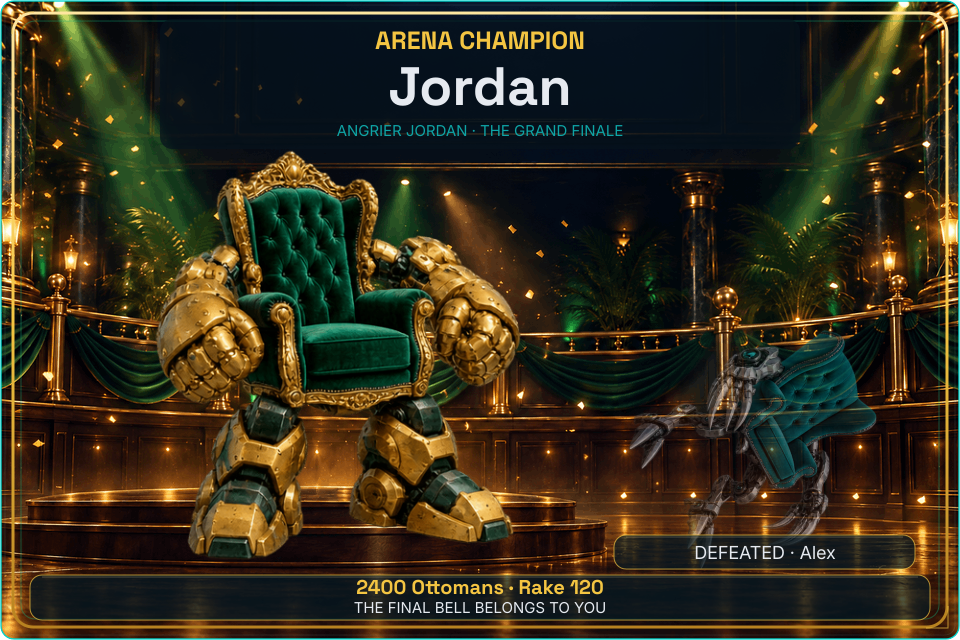
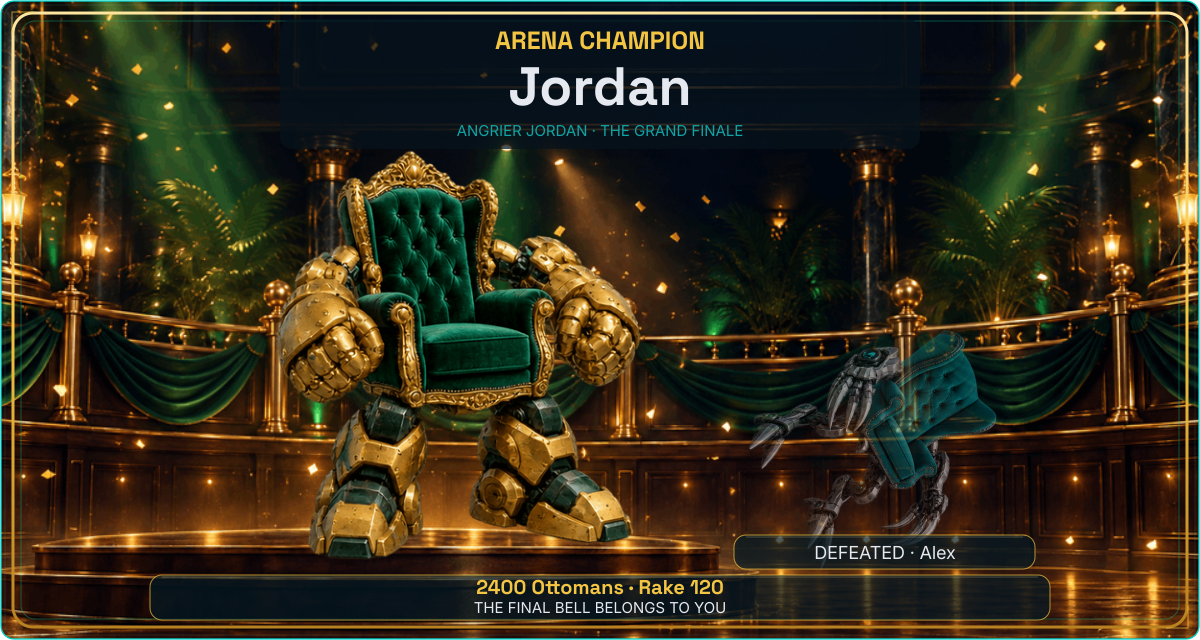
Widen event layouts and polish waiting clocks and race finish

diff --git a/angrier_jordan_precode_construction_pack_v1/packages/features-special/src/render.ts b/angrier_jordan_precode_construction_pack_v1/packages/features-special/src/render.ts
@@ -51,22 +51,22 @@ export function lineSequence(view:LineView,layout:'compact'|'wide'='compact'){co
 
 /** Landscape runtime edition uses the approved lounge, materials and countdown particles. */
 function renderWideLine(view:LineView,elapsedMs:number,callout=''){
- const panel=(x:number,y:number,w:number,h:number,accent='#C1A364')=>`<rect x="${x}" y="${y}" width="${w}" height="${h}" rx="12" fill="#041923" fill-opacity=".48" stroke="${accent}"/><path d="M${x+12} ${y+2}H${x+w-12}" stroke="#F7E5AC" stroke-opacity=".25"/>`;
+ const panel=(x:number,y:number,w:number,h:number,accent='#C1A364')=>`<rect x="${x}" y="${y}" width="${w}" height="${h}" rx="12" fill="url(#loungeGlass)" stroke="${accent}" stroke-opacity=".72"/><path d="M${x+12} ${y+2}H${x+w-12}" stroke="#F7E5AC" stroke-opacity=".25"/><path d="M${x+8} ${y+25}V${y+8}H${x+25}M${x+w-25} ${y+h-8}H${x+w-8}V${y+h-25}" fill="none" stroke="#D5AE62" stroke-opacity=".75"/>`;
 
  const ready=view.members.filter(m=>m.status==='ready'),waiting=view.members.filter(m=>m.status==='waiting'),host=short(view.members.find(m=>m.userId===view.ownerId)?.name??'Host',24),motion=lineFrame(elapsedMs,view.durationMs??LINE_DURATION_MS),live=view.state==='SETTLING',done=view.state==='CLOSED'||live&&motion.phase==='complete',cancelled=view.state==='CANCELLED';
- let body=text(480,40,'ANGRIER JORDAN · PRIVATE LOUNGE EVENTS',16,'#C8A1FF',mid)+head(480,89,'Line Time',46,'#E6EAF0',mid)+text(480,125,done?'THE MOMENT IS OURS':cancelled?'UNTIL NEXT TIME':live?'ONE ROOM · ONE SHARED MOMENT':'READY CHECK · COUNTDOWN · GRAND FINALE',20,'#E4C67F',mid);
- body+=panel(30,146,900,62,'#C1A364')+head(480,184,host+' · Host',28,'#E6EAF0',mid)+panel(30,221,228,328,'#10B981')+panel(702,221,228,328,'#C1A364')+panel(270,221,420,328,'#AF7AE1');
- for(const[groupIndex,members]of [ready,waiting].entries()){const x=144+groupIndex*672;body+=head(x,258,(groupIndex?'ONE SECOND · ':'READY · ')+members.length,22,groupIndex?'#F4C542':'#68E0B7',mid);for(const[i,m]of members.slice(0,5).entries())body+=head(x,305+i*44,short(m.name,14),22,'#E6EAF0',mid);if(!members.length)body+=text(x,379,'An open seat.',20,'#B4CECA',mid);if(members.length>5)body+=text(x,534,'+'+(members.length-5)+' more',17,'#D0C0EA',mid);}
- body+='<g clip-path="url(#stage)"><image href="'+eventScene('line-countdown.png')+'" x="0" y="0" width="960" height="640" preserveAspectRatio="xMidYMid slice"/></g>';
- if(live&&!done){if(motion.phase==='burst'){body+='<g clip-path="url(#stage)"><image href="'+eventScene('line-powder.png')+'" x="'+(480-(320+motion.progress*100)/2)+'" y="'+(320-motion.progress*70)+'" width="'+(320+motion.progress*100)+'" height="'+(230+motion.progress*100)+'"/></g>';}else{body+=head(480,252,'LINE STARTS IN',23,'#F4D17B',mid)+'<image data-countdown-number="'+motion.number+'" href="'+eventScene('line-number-'+motion.number+'.png')+'" x="359" y="262" width="242" height="272" preserveAspectRatio="xMidYMid meet"/>';} }
- else if(done||cancelled){body+='<circle cx="480" cy="369" r="80" fill="#0E3233" stroke="#C0A264" stroke-width="3"/>'+(cancelled?'<path d="M454 343 506 395M506 343 454 395" stroke="#D7BCF8" stroke-width="5"/>':'<path d="M438 370 468 397 526 343" stroke="#74E6BC" stroke-width="6" fill="none"/>')+head(480,488,done?'Line complete.':'Line cancelled.',26,'#E6EAF0',mid);}
- else{body+='<circle cx="480" cy="368" r="102" fill="#071F28" fill-opacity=".7" stroke="#BF9F60" stroke-width="3"/>'+head(480,373,String(view.members.length),94,'#E4D0FF',mid)+text(480,416,'CHAIRS GATHERED',19,'#E4C67F',mid)+text(480,496,'The finale begins at timer end.',21,'#E6EAF0',mid);}
- body+=panel(30,562,900,54,'#BBA16A')+head(480,596,done?'SIT. PLAY. BELONG.':cancelled?'A NEW MOMENT AWAITS':live&&motion.phase==='burst'?'ONE GLORIOUS CLOUD OF CHAOS':live?'5 · 4 · 3 · 2 · 1':(short(callout.replace(/<@&\d+>/g,'').trim(),64)||'CHECK IN BELOW · THE HOST MAY START EARLY'),21,'#E6EAF0',mid);
+ let body=text(600,40,'ANGRIER JORDAN · PRIVATE LOUNGE EVENTS',16,'#C8A1FF',mid)+head(600,89,'Line Time',46,'#E6EAF0',mid)+text(600,125,done?'SIT. PLAY. BELONG.':cancelled?'UNTIL NEXT TIME':live?'ONE ROOM · ONE SHARED MOMENT':'READY CHECK · COUNTDOWN · GRAND FINALE',20,'#E4C67F',mid);
+ body+=panel(30,146,1140,62,'#C1A364')+head(600,184,host+' · Host',28,'#E6EAF0',mid)+panel(30,221,264,328,'#10B981')+panel(906,221,264,328,'#C1A364')+panel(306,221,588,328,'#AF7AE1');
+ for(const[groupIndex,members]of [ready,waiting].entries()){const x=162+groupIndex*876;body+=head(x,258,(groupIndex?'ONE SECOND · ':'READY · ')+members.length,22,groupIndex?'#F4C542':'#68E0B7',mid);for(const[i,m]of members.slice(0,5).entries())body+=head(x,305+i*44,short(m.name,17),26,'#E6EAF0',mid);if(!members.length)body+=text(x,379,'An open seat.',20,'#B4CECA',mid);if(members.length>5)body+=text(x,534,'+'+(members.length-5)+' more',17,'#D0C0EA',mid);}
+ body+='<g clip-path="url(#stage)"><image href="'+eventScene('line-countdown.png')+'" x="0" y="0" width="1200" height="640" preserveAspectRatio="xMidYMid slice"/></g>';
+ if(live&&!done){if(motion.phase==='burst'){body+='<g clip-path="url(#stage)"><image href="'+eventScene('line-powder.png')+'" x="'+(600-(320+motion.progress*100)/2)+'" y="'+(320-motion.progress*70)+'" width="'+(320+motion.progress*100)+'" height="'+(230+motion.progress*100)+'"/></g>';}else{body+=head(600,252,'LINE STARTS IN',23,'#F4D17B',mid)+'<image data-countdown-number="'+motion.number+'" href="'+eventScene('line-number-'+motion.number+'.png')+'" x="443" y="262" width="314" height="272" preserveAspectRatio="xMidYMid meet"/>';} }
+ else if(done||cancelled){body+='<circle cx="600" cy="369" r="80" fill="#0E3233" stroke="#C0A264" stroke-width="3"/>'+(cancelled?'<path d="M574 343 626 395M626 343 574 395" stroke="#D7BCF8" stroke-width="5"/>':'<path d="M558 370 588 397 646 343" stroke="#74E6BC" stroke-width="6" fill="none"/>')+head(600,488,done?'Line complete.':'Line cancelled.',26,'#E6EAF0',mid);}
+ else{body+='<circle cx="600" cy="368" r="102" fill="#071F28" fill-opacity=".7" stroke="#BF9F60" stroke-width="3"/>'+head(600,373,String(view.members.length),94,'#E4D0FF',mid)+text(600,416,'CHAIRS GATHERED',19,'#E4C67F',mid)+text(600,496,'The finale begins at timer end.',21,'#E6EAF0',mid);}
+ body+=panel(30,562,1140,54,'#BBA16A')+head(600,596,done?'SIT. PLAY. BELONG.':cancelled?'A NEW MOMENT AWAITS':live&&motion.phase==='burst'?'ONE GLORIOUS CLOUD OF CHAOS':live?'5 · 4 · 3 · 2 · 1':(short(callout.replace(/<@&\d+>/g,'').trim(),64)||'CHECK IN BELOW · THE HOST MAY START EARLY'),21,'#E6EAF0',mid);
 
  if(done){
-  body='<image href="'+eventScene('line-powder.png')+'" x="60" y="142" width="840" height="434"/>';
-  body+='<rect x="159" y="24" width="642" height="140" rx="14" fill="#06131D" fill-opacity=".72"/>'+text(480,57,'ANGRIER JORDAN · THE GRAND FINALE',18,'#D1ABFF',mid)+head(480,111,'LINE COMPLETE',56,'#F4D17B',mid)+text(480,147,'THE MOMENT IS OURS',24,'#E6EAF0',mid);
-  body+=panel(30,559,900,61,'#D8B873')+head(480,586,host+' · '+view.members.length+' Chairs together',25,'#E6EAF0',mid)+text(480,609,'SAME CHAIRS. A MOMENT WORTH KEEPING.',17,'#F4D17B',mid);
+  body='<image href="'+eventScene('line-powder.png')+'" x="180" y="142" width="840" height="434"/>';
+  body+='<rect x="279" y="24" width="642" height="140" rx="14" fill="#06131D" fill-opacity=".72"/>'+text(600,57,'ANGRIER JORDAN · THE GRAND FINALE',18,'#D1ABFF',mid)+head(600,111,'LINE COMPLETE',56,'#F4D17B',mid);
+  body+=panel(30,559,1140,61,'#D8B873')+head(600,586,host+' · '+view.members.length+' Chairs together',25,'#E6EAF0',mid)+text(600,609,'SAME CHAIRS. A MOMENT WORTH KEEPING.',17,'#F4D17B',mid);
  }
- return '<svg xmlns="http://www.w3.org/2000/svg" width="960" height="640" viewBox="0 0 960 640">'+defs+'<defs><clipPath id="wide"><rect width="960" height="640" rx="18"/></clipPath><clipPath id="stage"><rect x="271" y="222" width="418" height="326" rx="10"/></clipPath></defs><g clip-path="url(#wide)"><image href="'+eventScene('line-countdown.png')+'" width="960" height="640" preserveAspectRatio="xMidYMid slice"/><rect width="960" height="640" fill="url(#wash)"/>'+body+'</g><rect x="2" y="2" width="956" height="636" rx="18" fill="none" stroke="#A469E2" stroke-width="3"/><rect x="12" y="12" width="936" height="616" rx="16" fill="none" stroke="#D9BC75" stroke-width="3"/><rect x="19" y="19" width="922" height="602" rx="12" fill="none" stroke="#A469E2" stroke-opacity=".45"/></svg>';
+ return '<svg xmlns="http://www.w3.org/2000/svg" width="1200" height="640" viewBox="0 0 1200 640">'+defs+'<defs><linearGradient id="loungeGlass" x2="0" y2="1"><stop stop-color="#0B1220" stop-opacity=".64"/><stop offset=".5" stop-color="#0A3639" stop-opacity=".25"/><stop offset="1" stop-color="#15140F" stop-opacity=".55"/></linearGradient><clipPath id="wide"><rect width="1200" height="640" rx="18"/></clipPath><clipPath id="stage"><rect x="307" y="222" width="586" height="326" rx="10"/></clipPath></defs><g clip-path="url(#wide)"><image href="'+eventScene('line-countdown.png')+'" width="1200" height="640" preserveAspectRatio="xMidYMid slice"/><rect width="1200" height="640" fill="url(#wash)"/>'+body+'</g><rect x="2" y="2" width="1196" height="636" rx="18" fill="none" stroke="#A469E2" stroke-width="3"/><rect x="12" y="12" width="1176" height="616" rx="16" fill="none" stroke="#D9BC75" stroke-width="3"/><rect x="19" y="19" width="1162" height="602" rx="12" fill="none" stroke="#A469E2" stroke-opacity=".45"/></svg>';
 }

diff --git a/angrier_jordan_precode_construction_pack_v1/packages/features-events/src/wide-render.ts b/angrier_jordan_precode_construction_pack_v1/packages/features-events/src/wide-render.ts
@@ -6,28 +6,37 @@ const title=(x:number,y:number,s:string,size=28,color:string=ink.white)=>text(x,
 const panel=(x:number,y:number,w:number,h:number,accent:string=ink.teal)=>`<rect x="${x}" y="${y}" width="${w}" height="${h}" rx="12" fill="#041923" fill-opacity=".7" stroke="${accent}" stroke-opacity=".7"/><path d="M${x+12} ${y+2}H${x+w-12}" stroke="#F7E5AC" stroke-opacity=".25"/>`;
 const skin=(n=1)=>Math.max(1,Math.min(6,Math.trunc(n)));
 const car=(n=1)=>imageAsset('../v5/cars-'+skin(n)+'-runtime.png'),robot=(n=1)=>imageAsset('../v5/robots-'+skin(n)+'-runtime.png');
-function frame(body:string,scene='lounge-stage-runtime.png'){return shell(640,'<image href="'+imageAsset('../v5/'+scene)+'" width="960" height="640"/>'+ '<rect x="13" y="13" width="934" height="614" rx="20" fill="none" stroke="url(#gold)" stroke-width="3"/><rect x="21" y="21" width="918" height="598" rx="14" fill="none" stroke="#10B981" stroke-opacity=".4"/>'+body,0,960);}
+function frame(body:string,scene='lounge-stage-runtime.png',expanded=false){return shell(640,'<image href="'+imageAsset('../v5/'+scene)+'" width="1200" height="640" preserveAspectRatio="xMidYMid slice"/>'+ '<rect x="13" y="13" width="1174" height="614" rx="20" fill="none" stroke="url(#gold)" stroke-width="3"/><rect x="21" y="21" width="1158" height="598" rx="14" fill="none" stroke="#10B981" stroke-opacity=".4"/>'+(expanded?body:'<g transform="translate(120 0)">'+body+'</g>'),0,1200);}
 function heading(name:string,state:string){return title(480,45,'ANGRIER JORDAN · PRIVATE LOUNGE EVENTS',16,ink.teal)+title(480,91,name,43)+title(480,125,state,20,ink.warm);}
 function pool(view:RaceView,label:string){return panel(32,553,896,60,ink.gold)+title(480,581,(view.result?.pool??view.pool)+' Ottomans · '+label,25)+text(480,603,view.result?.refunded?'FULL REFUND · NO RAKE':'SIT. PLAY. BELONG.',14,ink.warm,mid);}
-/** Live positions consume the persisted authoritative race timeline. */
+/** A single clock animation is anchored to the saved waiting deadline. */
+function waitingClock(remainingMs:number,totalMs:number,x=32,y=553,width=896,poolValue='0'){
+ const seconds=Math.max(0,Math.ceil(remainingMs/1000)),ratio=Math.max(0,Math.min(1,remainingMs/totalMs)),clock=seconds?String(Math.floor(seconds/60)).padStart(2,'0')+':'+String(seconds%60).padStart(2,'0'):'STARTING';
+ return '<g data-waiting-seconds="'+seconds+'">'+panel(x,y,width,60,ink.gold)+title(x+width/2,y+29,(seconds?'STARTS IN '+clock:'WAITING WINDOW COMPLETE'),29,seconds<=5?ink.gold:ink.white)+text(x+width-18,y+27,short(poolValue,18)+' Ottomans',17,ink.warm,'text-anchor="end"')+'<rect x="'+(x+18)+'" y="'+(y+43)+'" width="'+(width-36)+'" height="7" rx="3" fill="#05202B"/><rect x="'+(x+18)+'" y="'+(y+43)+'" width="'+((width-36)*ratio)+'" height="7" rx="3" fill="url(#gold)"/></g>';
+}
+/** Position and finish arrival both consume the persisted race snapshot; no modulo motion. */
 export function renderWideRace(view:RaceView,motion:EventMotion={}){
- const live=view.state==='LOCKED',closed=view.state==='CLOSED',cancelled=view.state==='CANCELLED',phase=motion.phase??0;
- if(closed)return grandFinale(view,'race');
- if(live&&view.motion){let body=heading('Chair Race','LIVE STANDINGS · BETTING LOCKED');const h=390/Math.max(1,view.racers.length);for(const [i,r]of view.racers.entries()){const row=view.motion.rows.find(x=>x.userId===r.userId),progress=Math.max(0,Math.min(100,row?.progress??0)),y=146+i*h;body+=panel(32,y,896,h-5,i%2?ink.gold:ink.teal)+title(155,y+h*.45,short(r.name,15),24)+title(155,y+h*.75,'#'+(row?.place??i+1),20,ink.gold)+'<path d="M290 '+(y+h-15)+'H890" stroke="#B99859" stroke-width="2" stroke-dasharray="16 8"/><image href="'+car(r.chair)+'" x="'+(280+progress*4.7)+'" y="'+(y+2)+'" width="135" height="'+(h-10)+'"/>'; }return frame(body+pool(view,'race pool'));}
- let body=heading(closed?'Chair Race · Winner’s Circle':'Chair Race',live?'ENGINES ON · BETTING LOCKED':closed?'THE OFFICIAL RESULT':cancelled?'RACE CANCELLED':'TAKE YOUR SEAT · BACK YOUR FAVOURITE');
- if(closed){const winner=view.racers.find(r=>r.userId===view.winnerId),ranked=[...view.racers].sort((a,b)=>(view.motion?.rows.find(r=>r.userId===a.userId)?.place??1)-(view.motion?.rows.find(r=>r.userId===b.userId)?.place??1));
-  body+=panel(32,146,478,390,ink.gold)+'<ellipse cx="271" cy="405" rx="210" ry="75" fill="url(#lamp)"/><image href="'+car(winner?.chair)+'" x="115" y="160" width="312" height="285"/>'+title(271,477,short(winner?.name??'Winner'),34,ink.gold)+title(271,511,'FIRST ACROSS THE LINE',18)+panel(526,146,402,390);
-  const gap=Math.min(72,310/Math.max(1,ranked.length)),top=341-(ranked.length-1)*gap/2;
-  body+=ranked.map((r,i)=>title(727,top+i*gap,String(i+1).padStart(2,'0')+' · '+short(r.name,18),28,i?ink.white:ink.gold)).join('');
+ if(view.state==='CLOSED')return grandFinale(view,'race');
+ const live=view.state==='LOCKED',cancelled=view.state==='CANCELLED',finished=!!view.motion?.finished;
+ let body='<g transform="translate(120 0)">'+heading('Chair Race',live?(finished?'THE FINISH LINE · OFFICIAL RESULT NEXT':'LIVE STANDINGS · BETTING LOCKED'):cancelled?'RACE CANCELLED':'TAKE YOUR SEAT · BACK YOUR FAVOURITE')+'</g>';
+ if(live&&view.motion){
+  const h=390/Math.max(1,view.racers.length),start=290,finish=1090;
+  for(const [i,r]of view.racers.entries()){
+   const row=view.motion.rows.find(x=>x.userId===r.userId),progress=Math.max(0,Math.min(100,row?.progress??0)),y=146+i*h,size=Math.min(170,h-7),x=start+progress/100*(finish-start-size*.88),near=progress>80;
+   body+=panel(32,y,1136,h-5,i%2?ink.gold:ink.teal)+title(151,y+h*.45,short(r.name,16),26)+title(151,y+h*.8,'#'+(row?.place??i+1),21,ink.gold);
+   body+='<path d="M'+start+' '+(y+h-9)+'H'+finish+'" stroke="#B99859" stroke-width="2" stroke-dasharray="18 9"/>';
+   for(let k=0;k<6;k++)body+='<rect x="'+(finish+(k%2)*8)+'" y="'+(y+8+Math.floor(k/2)*Math.max(10,(h-18)/3))+'" width="8" height="'+Math.max(10,(h-18)/3)+'" fill="'+(k%2?'#F4C542':'#E6EAF0')+'"/>';
+   if(near)body+='<ellipse cx="'+(x+size/2)+'" cy="'+(y+h/2)+'" rx="'+size+'" ry="'+(h*.4)+'" fill="url(#lamp)" opacity="'+((progress-80)/20)+'"/>';
+   body+='<image data-race-progress="'+progress+'" data-race-nose="'+(x+size*.88)+'" href="'+car(r.chair)+'" x="'+x+'" y="'+(y+2)+'" width="'+size+'" height="'+size+'"/>';
+  }
  }else{
-  const n=Math.max(1,view.racers.length),cols=n<=2?n:3,rows=Math.ceil(n/cols),w=896/cols,h=390/rows;
-  for(const[rIndex,r]of view.racers.entries()){const x=32+(rIndex%cols)*w,y=146+Math.floor(rIndex/cols)*h,cx=x+w/2,bob=live?Math.sin(phase*2*Math.PI+rIndex)*2:0;
-   body+=panel(x+3,y,w-6,h-8,rIndex%2?ink.gold:ink.teal)+title(cx,y+32,short(r.name,20),27)+'<ellipse cx="'+cx+'" cy="'+(y+h-40)+'" rx="'+(w*.4)+'" ry="28" fill="url(#aura)"/>';
-   if(live)for(let j=0;j<5;j++)body+='<path d="M'+(x+20+(j*53+phase*60)%(w-50))+' '+(y+h-34)+'h18" stroke="#52E4C5" stroke-width="2" opacity=".45"/>';
-   body+='<image href="'+car(r.chair)+'" x="'+(x+20)+'" y="'+(y+37+bob)+'" width="'+(w-40)+'" height="'+(h-78)+'"/>'+text(cx,y+h-20,live?'RACER '+(rIndex+1):cancelled?'UNTIL NEXT TIME':'RACER '+(rIndex+1)+' · EQUAL ODDS',18,ink.warm,mid);
+  if(!cancelled)body+=waitingClock(motion.waitingMs??0,view.extensionUsed?90000:60000,32,132,1136,view.pool);
+  const n=Math.max(1,view.racers.length),cols=n<=2?n:3,rows=Math.ceil(n/cols),w=1136/cols,top=cancelled?146:203,h=((cancelled?535:617)-top)/rows;
+  for(const[i,r]of view.racers.entries()){const x=32+i%cols*w,y=top+Math.floor(i/cols)*h,cx=x+w/2;
+   body+=panel(x+3,y,w-6,h-8,i%2?ink.gold:ink.teal)+title(cx,y+31,short(r.name,22),28)+'<ellipse cx="'+cx+'" cy="'+(y+h-25)+'" rx="'+(w*.4)+'" ry="22" fill="url(#aura)"/><image href="'+car(r.chair)+'" x="'+(x+12)+'" y="'+(y+35)+'" width="'+(w-24)+'" height="'+(h-49)+'"/>';
   }
  }
- return frame(body+pool(view,short(motion.callout??'total pool',48)));
+ return frame(body+(view.state==='OPEN'?'':'<g transform="translate(120 0)">'+pool(view,live?(finished?'finish line reached':'race pool'):short(motion.callout??'total pool',48))+'</g>'),'lounge-stage-runtime.png',true);
 }
 /** Combat animation adds energy only: actual HP and moves come from the persisted timeline. */
 export function renderWideFight(view:RaceView,motion:EventMotion={}){
@@ -42,7 +51,7 @@ export function renderWideFight(view:RaceView,motion:EventMotion={}){
  body+=title(480,316,closed?'KO':'VS',39,ink.gold);
  if(live)for(let i=0;i<12;i++){const a=i*Math.PI/6+phase*.4;body+='<circle cx="'+(480+Math.cos(a)*(22+phase*50))+'" cy="'+(356+Math.sin(a)*(22+phase*50))+'" r="2" fill="'+(i%2?'#10B981':'#F4C542')+'" opacity="'+(1-phase*.6)+'"/>';}
  if(live){for(const [i,line]of lines(view.combat?.log.at(-1)??'The fighters enter the arena.',68).slice(0,2).entries())body+=title(480,510+i*22,line,20);}
- return frame(body+pool(view,short(motion.callout??'total pool',48)));
+ return frame(body+(view.state==='OPEN'?waitingClock(motion.waitingMs??0,view.extensionUsed?60000:30000,32,553,896,view.pool):pool(view,short(motion.callout??'total pool',48))));
 }
 
 /** Terminal scene persists on the original message; only settled outcomes reach this composition. */

diff --git a/angrier_jordan_precode_construction_pack_v1/apps/bot/src/discord/events-coordinator.ts b/angrier_jordan_precode_construction_pack_v1/apps/bot/src/discord/events-coordinator.ts
@@ -76,23 +76,36 @@ export class DiscordEventsCoordinator {
   if(!silent)await i.deleteReply();
   try{await this.refresh(i.client,id);}catch{await i.followUp({ephemeral:true,content:'Your action is saved. The public card refresh is pending.'});}
  }catch(error){const content=error instanceof DomainError?error.message:'The event update could not be completed. Check its saved state before retrying.';if(i.replied||silent&&i.deferred)await i.followUp({ephemeral:true,content});else if(i.deferred)await i.editReply({content});else await i.reply({ephemeral:true,content});}}
- async payload(view:RaceView,options:{animate?:boolean;retainImageUrl?:string;callout?:string;timeline?:RaceData}={}){
-  const fight=view.type==='fight',prefix=fight?'fight':'event',live=view.state==='LOCKED',saved=options.timeline,plan=fight?saved?.fightPlan:saved?.plan,animate=live&&options.animate!==false&&Boolean(plan&&saved?.startedAt),filename=`${fight?'fight':'race'}-${view.state.toLowerCase()}.${animate||options.retainImageUrl?'gif':'png'}`,open=view.state==='OPEN',components:ActionRowBuilder<ButtonBuilder>[]=[];
-  const render=(imageView:RaceView=view,phase=0)=>{const motion={phase,...(options.callout?{callout:options.callout.replace(/<@&[^>]+>\s*/g,'')}: {})};return fight?renderFight(imageView,motion,'wide'):renderRace(imageView,'wide',motion);};
+ async payload(view:RaceView,options:{animate?:boolean;retainImageUrl?:string;callout?:string;timeline?:RaceData;nowMs?:number}={}){
+  const now=options.nowMs??Date.now(),waitingMs=Math.max(0,Math.ceil(((view.expiresAt?.getTime()??now)-now)/10)*10),waiting=view.state==='OPEN'&&options.animate!==false&&waitingMs>0;
+  const fight=view.type==='fight',prefix=fight?'fight':'event',live=view.state==='LOCKED',saved=options.timeline,plan=fight?saved?.fightPlan:saved?.plan,animate=live&&options.animate!==false&&Boolean(plan&&saved?.startedAt),filename=`${fight?'fight':'race'}-${view.state.toLowerCase()}.${animate||waiting||options.retainImageUrl?'gif':'png'}`,open=view.state==='OPEN',components:ActionRowBuilder<ButtonBuilder>[]=[];
+  const render=(imageView:RaceView=view,phase=0,remaining=waitingMs)=>{const motion={phase,waitingMs:remaining,...(options.callout?{callout:options.callout.replace(/<@&[^>]+>\s*/g,'')}: {})};return fight?renderFight(imageView,motion,'wide'):renderRace(imageView,'wide',motion);};
   let image:Buffer|undefined;
   if(!options.retainImageUrl){
    if(animate&&saved?.startedAt&&plan){
     // Only locked wagers and rendered snapshots leave this process; the private plan is never serialized in the payload.
     const end=Math.ceil(plan.durationMs/10)*10,times=[0];
     if(fight&&saved.fightPlan){for(const beat of saved.fightPlan.beats){const at=Math.ceil(beat.atMs/10)*10,previous=times.at(-1)!;if(at-previous>=20)times.push(Math.floor((previous+at)/20)*10);if(at>times.at(-1)!)times.push(at);}}
-    else for(let at=500;at<end;at+=500)times.push(at);
+    else for(let i=1;i<60;i++)times.push(Math.round(end*Math.pow(i/60,.8)/10)*10);
     if(times.at(-1)!<end)times.push(end);
-    const frames=times.map(at=>render({...view,...(fight&&saved.fightPlan?{combat:fightSnapshot(saved.fightPlan,at,view.racers)}:saved.plan?{motion:raceSnapshot(saved.plan,at)}:{})},at/1000%1));
+    const frames=times.map(at=>render({...view,...(fight&&saved.fightPlan?{combat:fightSnapshot(saved.fightPlan,at,view.racers)}:saved.plan?{motion:raceSnapshot(saved.plan,at)}:{})},fight?at/1000%1:at/end));
     image=await rasterizeTimeline(frames,times.map((at,index)=>index+1<times.length?times[index+1]!-at:1000),new Date(saved.startedAt).getTime());
+   }else if(waiting){
+    const steps=Math.min(60,Math.ceil(waitingMs/1000)),step=Math.max(10,Math.ceil(waitingMs/steps/10)*10),times=Array.from({length:steps},(_,i)=>i*step).filter(at=>at<waitingMs);times.push(waitingMs);
+    image=await rasterizeTimeline(times.map(at=>render(view,0,Math.max(0,waitingMs-at))),times.map((at,i)=>i+1<times.length?times[i+1]!-at:1000),now);
    }else image=await rasterizeSvg(render());
   }
-  if(open){components.push(new ActionRowBuilder<ButtonBuilder>().addComponents(...(fight?[]:[new ButtonBuilder().setCustomId('event:join:'+view.id).setLabel('Join Race').setStyle(ButtonStyle.Primary).setDisabled(view.racers.length>=6)]),new ButtonBuilder().setCustomId(prefix+':extend:'+view.id).setLabel('+30 Seconds').setStyle(ButtonStyle.Secondary).setDisabled(view.extensionUsed),new ButtonBuilder().setCustomId(prefix+':rules:'+view.id).setLabel('Rules').setStyle(ButtonStyle.Secondary)));
-   for(let start=0;start<view.racers.length;start+=3)components.push(new ActionRowBuilder<ButtonBuilder>().addComponents(...view.racers.slice(start,start+3).map(r=>new ButtonBuilder().setCustomId(`${prefix}:bet:${view.id}:${r.userId}`).setLabel(`Bet · ${r.name}`.slice(0,80)).setStyle(ButtonStyle.Secondary))));
+  if(open){
+   const join=new ButtonBuilder().setCustomId('event:join:'+view.id).setLabel('Join Race').setStyle(ButtonStyle.Primary).setDisabled(view.racers.length>=6);
+   const secondary=[new ButtonBuilder().setCustomId(prefix+':extend:'+view.id).setLabel('+30 Seconds').setStyle(ButtonStyle.Secondary).setDisabled(view.extensionUsed),new ButtonBuilder().setCustomId(prefix+':rules:'+view.id).setLabel('Rules').setStyle(ButtonStyle.Secondary)];
+   const bets=view.racers.map(r=>new ButtonBuilder().setCustomId(prefix+':bet:'+view.id+':'+r.userId).setLabel('Bet · '+r.name.slice(0,24)).setStyle(fight?ButtonStyle.Primary:ButtonStyle.Secondary));
+   if(!fight&&bets.length<=1){components.push(new ActionRowBuilder<ButtonBuilder>().addComponents(join,...bets));components.push(new ActionRowBuilder<ButtonBuilder>().addComponents(...secondary));}
+   else{
+    if(!fight)components.push(new ActionRowBuilder<ButtonBuilder>().addComponents(join,...secondary));
+    const size=Math.ceil(bets.length/Math.max(1,Math.ceil(bets.length/3)));
+    for(let start=0;start<bets.length;start+=size)components.push(new ActionRowBuilder<ButtonBuilder>().addComponents(...bets.slice(start,start+size)));
+    if(fight)components.push(new ActionRowBuilder<ButtonBuilder>().addComponents(...secondary));
+   }
   }
   return eventWindow({title:fight?'Robo Chair Fight':'Chair Race',description:'',filename,...(image?{image}:{}),rows:components,...(options.retainImageUrl?{imageUrl:options.retainImageUrl}:{}),...(options.callout?{callout:options.callout}:{})});
  }
@@ -102,7 +115,7 @@ export class DiscordEventsCoordinator {
   const saved=view.state==='LOCKED'&&!retainImageUrl&&typeof this.repo.get==='function'?await this.repo.get(id):undefined;
   let payload=await this.payload(view,retainImageUrl?{retainImageUrl}:saved?.state==='LOCKED'?{timeline:saved.data}:{});
   // Rendering may span the end of a round. Never overwrite a persisted result/cancellation with stale live art.
-  if(view.state==='LOCKED'){const latest=await this.repo.publicView(id);if(latest.state!==view.state){view=latest;key=version(view);payload=await this.payload(view);}}
+  if(view.state==='LOCKED'||view.state==='OPEN'){const latest=await this.repo.publicView(id);if(latest.state!==view.state||latest.expiresAt?.getTime()!==view.expiresAt?.getTime()){view=latest;key=version(view);const latestSaved=view.state==='LOCKED'&&typeof this.repo.get==='function'?await this.repo.get(id):undefined;payload=await this.payload(view,latestSaved?.state==='LOCKED'?{timeline:latestSaved.data}:{});}}
   await message.edit(payload);
   if(view.state==='LOCKED'&&(retainImageUrl||payload.files?.some(file=>file.name===filename)))this.liveImages.set(id,retainImageUrl??'attachment://'+filename);else this.liveImages.delete(id);
   this.publishedVersions.set(id,key);});this.refreshes.set(id,current);try{await current;}finally{if(this.refreshes.get(id)===current)this.refreshes.delete(id);}}

diff --git a/angrier_jordan_precode_construction_pack_v1/packages/features-events/src/visual.ts b/angrier_jordan_precode_construction_pack_v1/packages/features-events/src/visual.ts
@@ -8,7 +8,7 @@ export function art(kind:'race_chair'|'robo_fighter',n:number){return imageAsset
 export function text(x:number,y:number,value:string,size=16,color:string=ink.white,extra=''){return `<text x="${x}" y="${y}" font-size="${size}" fill="${color}" ${extra}>${esc(value)}</text>`;}
 export function lines(value:string,max=38){const result:string[]=[];let line='';for(const word of value.split(/\s+/)){if(line&&line.length+word.length+1>max){result.push(line);line='';}line+=(line?' ':'')+word;}if(line)result.push(line);return result;}
 export function panel(x:number,y:number,width:number,height:number,accent=ink.teal){return `<rect x="${x}" y="${y+3}" width="${width}" height="${height}" rx="10" fill="#000" opacity=".4"/><rect x="${x}" y="${y}" width="${width}" height="${height}" rx="10" fill="url(#glass)" stroke="${accent}" stroke-opacity=".65"/><path d="M${x+12} ${y+1}H${x+width-12}" stroke="#DDFBF7" stroke-opacity=".15"/>`;}
-export function shell(height:number,body:string,phase=0,width=440){return `<svg xmlns="http://www.w3.org/2000/svg" width="${width}" height="${height}" viewBox="0 0 ${width} ${height}"><defs><clipPath id="window"><rect x="1" y="1" width="${width-2}" height="${height-2}" rx="13"/></clipPath><linearGradient id="glass" x2="0" y2="1"><stop stop-color="#173239" stop-opacity=".9"/><stop offset=".45" stop-color="#102630" stop-opacity=".88"/><stop offset="1" stop-color="#06131c" stop-opacity=".96"/></linearGradient><linearGradient id="shade" x2="0" y2="1"><stop stop-color="#00111B" stop-opacity=".25"/><stop offset=".55" stop-color="#00111B" stop-opacity=".15"/><stop offset="1" stop-color="#00111B" stop-opacity=".7"/></linearGradient><linearGradient id="rail" x2="0" y2="1"><stop stop-color="#51F7DC"/><stop offset=".45" stop-color="#00C9B4"/><stop offset="1" stop-color="#007F7F"/></linearGradient><linearGradient id="gold" x2="0" y2="1"><stop stop-color="#FFE6A0"/><stop offset=".5" stop-color="#F4C542"/><stop offset="1" stop-color="#B88220"/></linearGradient><radialGradient id="lamp"><stop stop-color="#F4C542" stop-opacity=".34"/><stop offset="1" stop-color="#F4C542" stop-opacity="0"/></radialGradient><radialGradient id="aura"><stop stop-color="#10B981" stop-opacity=".22"/><stop offset="1" stop-color="#10B981" stop-opacity="0"/></radialGradient></defs><g clip-path="url(#window)"><rect width="${width}" height="${height}" fill="#03131D"/><image href="${imageAsset(width===960?'../v5/lounge-stage-runtime.png':'lounge.png')}" width="${width}" height="${height}" preserveAspectRatio="xMidYMid slice"/><rect width="${width}" height="${height}" fill="url(#shade)"/><ellipse cx="${width-18}" cy="90" rx="115" ry="145" fill="url(#lamp)" opacity="${.25+.05*Math.cos(phase*2*Math.PI)}"/><g font-family="Inter">${body}</g></g><rect x="1" y="1" width="${width-2}" height="${height-2}" rx="13" fill="none" stroke="#00D7CF" stroke-width="1.3"/><rect x="5" y="5" width="${width-10}" height="${height-10}" rx="10" fill="none" stroke="#BDE6DC" stroke-opacity=".1"/><path d="M12 34V12H34M${width-34} ${height-12}H${width-12}V${height-34}" fill="none" stroke="#F4C542" stroke-opacity=".7"/></svg>`;}
+export function shell(height:number,body:string,phase=0,width=440){return `<svg xmlns="http://www.w3.org/2000/svg" width="${width}" height="${height}" viewBox="0 0 ${width} ${height}"><defs><clipPath id="window"><rect x="1" y="1" width="${width-2}" height="${height-2}" rx="13"/></clipPath><linearGradient id="glass" x2="0" y2="1"><stop stop-color="#173239" stop-opacity=".9"/><stop offset=".45" stop-color="#102630" stop-opacity=".88"/><stop offset="1" stop-color="#06131c" stop-opacity=".96"/></linearGradient><linearGradient id="shade" x2="0" y2="1"><stop stop-color="#00111B" stop-opacity=".25"/><stop offset=".55" stop-color="#00111B" stop-opacity=".15"/><stop offset="1" stop-color="#00111B" stop-opacity=".7"/></linearGradient><linearGradient id="rail" x2="0" y2="1"><stop stop-color="#51F7DC"/><stop offset=".45" stop-color="#00C9B4"/><stop offset="1" stop-color="#007F7F"/></linearGradient><linearGradient id="gold" x2="0" y2="1"><stop stop-color="#FFE6A0"/><stop offset=".5" stop-color="#F4C542"/><stop offset="1" stop-color="#B88220"/></linearGradient><radialGradient id="lamp"><stop stop-color="#F4C542" stop-opacity=".34"/><stop offset="1" stop-color="#F4C542" stop-opacity="0"/></radialGradient><radialGradient id="aura"><stop stop-color="#10B981" stop-opacity=".22"/><stop offset="1" stop-color="#10B981" stop-opacity="0"/></radialGradient></defs><g clip-path="url(#window)"><rect width="${width}" height="${height}" fill="#03131D"/><image href="${imageAsset(width>=960?'../v5/lounge-stage-runtime.png':'lounge.png')}" width="${width}" height="${height}" preserveAspectRatio="xMidYMid slice"/><rect width="${width}" height="${height}" fill="url(#shade)"/><ellipse cx="${width-18}" cy="90" rx="115" ry="145" fill="url(#lamp)" opacity="${.25+.05*Math.cos(phase*2*Math.PI)}"/><g font-family="Inter">${body}</g></g><rect x="1" y="1" width="${width-2}" height="${height-2}" rx="13" fill="none" stroke="#00D7CF" stroke-width="1.3"/><rect x="5" y="5" width="${width-10}" height="${height-10}" rx="10" fill="none" stroke="#BDE6DC" stroke-opacity=".1"/><path d="M12 34V12H34M${width-34} ${height-12}H${width-12}V${height-34}" fill="none" stroke="#F4C542" stroke-opacity=".7"/></svg>`;}
 export function heading(kicker:string,title:string,subtitle:string){return `<circle cx="36" cy="35" r="15" fill="#012c32" stroke="#00C8C6"/><path d="M29 42V27H42L39 32 42 36H29" fill="none" stroke="#6AF2DC" stroke-width="1.5"/>`+text(61,39,kicker,11,'#69EADD','letter-spacing="1.4" font-family="Space Grotesk" font-weight="600"')+text(22,84,title,32,ink.white,'font-family="Space Grotesk" font-weight="700"')+text(22,111,subtitle,15,ink.white);}
 export function footer(y:number,pool:string,status:string){return panel(18,y-20,404,65,ink.slate)+text(32,y,'TOTAL POOL',10,'#91CEC8','letter-spacing="1.2" font-family="Space Grotesk"')+text(32,y+29,pool+' Ottomans',21,ink.white,'font-weight="600"')+text(405,y+27,status,11,ink.warm,'text-anchor="end"');}
-export interface EventMotion {phase?:number;callout?:string;}
+export interface EventMotion {phase?:number;callout?:string;waitingMs?:number;}

diff --git a/angrier_jordan_precode_construction_pack_v1/apps/bot/src/discord/special-coordinator.ts b/angrier_jordan_precode_construction_pack_v1/apps/bot/src/discord/special-coordinator.ts
@@ -68,10 +68,11 @@ export class DiscordSpecialCoordinator {
   try{await this.refresh(i.client,id);}catch{await i.followUp({ephemeral:true,content:'Your action is saved. The public update is pending.'});}
  }catch(error){const content=error instanceof DomainError?error.message:'The Line update could not be completed. Check its saved state before retrying.';if(i.replied||i.deferred)await i.followUp({ephemeral:true,content});else await i.reply({ephemeral:true,content});}}
  async payload(view:LineView,callout?:string){const live=view.state==='SETTLING'&&view.elapsedMs<(view.durationMs??LINE_DURATION_MS),sequence=live?lineSequence(view,'wide'):null,animated=Boolean(sequence&&sequence.frames.length>1),image=sequence&&animated?await rasterizeSequence(sequence.frames,sequence.delays):await rasterizeSvg(renderLine(view,view.elapsedMs,'wide',callout)),filename=animated?'line-live.gif':'line.png',components:ActionRowBuilder<ButtonBuilder>[]=[];
-  if(view.state==='OPEN')components.push(new ActionRowBuilder<ButtonBuilder>().addComponents(new ButtonBuilder().setCustomId('line:ready:'+view.id).setLabel('I’m In').setStyle(ButtonStyle.Primary),new ButtonBuilder().setCustomId('line:waiting:'+view.id).setLabel('I Need a Second').setStyle(ButtonStyle.Secondary)));
-  if(['OPEN','LOCKED'].includes(view.state))components.push(new ActionRowBuilder<ButtonBuilder>().addComponents(...(view.state==='OPEN'?[new ButtonBuilder().setCustomId('line:extend:'+view.id).setLabel('+30 Seconds').setStyle(ButtonStyle.Secondary).setDisabled(view.extensionUsed)]:[]),new ButtonBuilder().setCustomId('line:start:'+view.id).setLabel('Start Countdown').setStyle(ButtonStyle.Primary),new ButtonBuilder().setCustomId('line:cancel:'+view.id).setLabel('Cancel Line').setStyle(ButtonStyle.Secondary)));
+  const roster=new ButtonBuilder().setCustomId('line:roster:'+view.id+':0').setLabel('Check-ins').setStyle(ButtonStyle.Secondary);
+  if(view.state==='OPEN')components.push(new ActionRowBuilder<ButtonBuilder>().addComponents(new ButtonBuilder().setCustomId('line:ready:'+view.id).setLabel('I’m In').setStyle(ButtonStyle.Success),new ButtonBuilder().setCustomId('line:waiting:'+view.id).setLabel('I Need a Second').setStyle(ButtonStyle.Secondary),roster));
+  if(['OPEN','LOCKED'].includes(view.state))components.push(new ActionRowBuilder<ButtonBuilder>().addComponents(new ButtonBuilder().setCustomId('line:start:'+view.id).setLabel('Start Countdown').setStyle(ButtonStyle.Primary),...(view.state==='OPEN'?[new ButtonBuilder().setCustomId('line:extend:'+view.id).setLabel('+30 Seconds').setStyle(ButtonStyle.Secondary).setDisabled(view.extensionUsed)]:[roster]),new ButtonBuilder().setCustomId('line:cancel:'+view.id).setLabel('Cancel Line').setStyle(ButtonStyle.Danger)));
   if(live)components.push(new ActionRowBuilder<ButtonBuilder>().addComponents(new ButtonBuilder().setCustomId('line:status:'+view.id).setLabel('Countdown live').setStyle(ButtonStyle.Secondary).setDisabled(true)));
-  if(!live)components.push(new ActionRowBuilder<ButtonBuilder>().addComponents(new ButtonBuilder().setCustomId('line:roster:'+view.id+':0').setLabel('Check-ins').setStyle(ButtonStyle.Secondary)));
+  if(['CLOSED','CANCELLED'].includes(view.state))components.push(new ActionRowBuilder<ButtonBuilder>().addComponents(roster));
   return eventWindow({title:'Line Time',description:view.state==='OPEN'?`Readiness ends <t:${Math.floor(view.expiresAt!.getTime()/1000)}:R> → five-second countdown → powder finale.`:view.state==='LOCKED'?'Preparing the countdown.':view.state==='CANCELLED'?'Line cancelled.':view.state==='CLOSED'?'Line complete.':'Five seconds. One shared moment.',filename,image,rows:components,accent:0xa469e2,...(callout?{callout}:{})});
  }
  async refresh(client:Client,id:string){const previous=this.refreshes.get(id)??Promise.resolve(),current=previous.catch(()=>{}).then(async()=>{const view=await this.repo.publicView(id);if(!view.messageId)return;const key=JSON.stringify([view.state,view.members,view.extensionUsed,view.state==='OPEN'?view.expiresAt:null]);if(this.publishedVersions.get(id)===key)return;const channel=await client.channels.fetch(view.channelId);if(!channel?.isTextBased()||!('messages' in channel))throw new Error('Line channel unavailable.');const message=await channel.messages.fetch(view.messageId);if(message.author.id!==client.user?.id)throw new Error('Line message author mismatch.');if(view.state==='SETTLING'&&message.attachments?.some(a=>a.name==='line-live.gif')){this.publishedVersions.set(id,key);return;}let payload=await this.payload(view);if(view.state==='SETTLING'){const latest=await this.repo.publicView(id);if(latest.state==='SETTLING'&&latest.elapsedMs>=(latest.durationMs??LINE_DURATION_MS)){await this.repo.complete(latest.guildId,id);payload=await this.payload(await this.repo.publicView(id));}else if(latest.state!=='SETTLING')payload=await this.payload(latest);}await message.edit(payload);this.publishedVersions.set(id,key);});this.refreshes.set(id,current);try{await current;}finally{if(this.refreshes.get(id)===current)this.refreshes.delete(id);}}

diff --git a/angrier_jordan_precode_construction_pack_v1/review-event-polish/index.html b/angrier_jordan_precode_construction_pack_v1/review-event-polish/index.html
@@ -1,1 +1,1 @@
-<!doctype html><meta charset="utf-8"><meta name="viewport" content="width=device-width"><title>AJ wide event fixtures</title><style>body{background:#0b1220;color:#e6eaf0;font:16px system-ui;margin:24px}main{max-width:960px;margin:auto}img{width:100%;height:auto}article{margin-bottom:32px}small{color:#a4cfc8}</style><main><h1>Wide event review</h1><p>Fixture renders · not live Discord screenshots · owner review pending.</p><article><h2>race-open.png</h2><img src="race-open.png"><p>Native Discord controls: Join Race · +30 Seconds · Rules · Bet · Jordan · Bet · Alex · Bet · Sam · Bet · Morgan · Bet · Taylor · Bet · Casey</p></article><article><h2>race-locked.gif</h2><img src="race-locked.gif"><p>Native Discord controls: None</p></article><article><h2>race-closed.png</h2><img src="race-closed.png"><p>Native Discord controls: None</p></article><article><h2>race-cancelled.png</h2><img src="race-cancelled.png"><p>Native Discord controls: None</p></article><article><h2>fight-open.png</h2><img src="fight-open.png"><p>Native Discord controls: +30 Seconds · Rules · Bet · Jordan · Bet · Alex</p></article><article><h2>fight-locked.gif</h2><img src="fight-locked.gif"><p>Native Discord controls: None</p></article><article><h2>fight-closed.png</h2><img src="fight-closed.png"><p>Native Discord controls: None</p></article><article><h2>fight-cancelled.png</h2><img src="fight-cancelled.png"><p>Native Discord controls: None</p></article><article><h2>line-open.png</h2><img src="line-open.png"><p>Native Discord controls: I’m In · I Need a Second · +30 Seconds · Start Countdown · Cancel Line · Check-ins</p></article><article><h2>line-locked.gif</h2><img src="line-locked.gif"><p>Native Discord controls: Countdown live</p></article><article><h2>line-closed.png</h2><img src="line-closed.png"><p>Native Discord controls: Check-ins</p></article><article><h2>line-cancelled.png</h2><img src="line-cancelled.png"><p>Native Discord controls: Check-ins</p></article></main>
+<!doctype html><meta charset="utf-8"><meta name="viewport" content="width=device-width"><title>AJ wide event fixtures</title><style>body{background:#0b1220;color:#e6eaf0;font:16px system-ui;margin:24px}main{max-width:1200px;margin:auto}img{width:100%;height:auto}article{margin-bottom:32px}small{color:#a4cfc8}</style><main><h1>Wide event review</h1><p>Fixture renders · not live Discord screenshots · owner review pending.</p><article><h2>race-waiting.gif</h2><img src="race-waiting.gif"><p>Native Discord controls: None</p></article><article><h2>race-open.png</h2><img src="race-open.png"><p>Native Discord controls: Join Race · +30 Seconds · Rules · Bet · Jordan · Bet · Alex · Bet · Sam · Bet · Morgan · Bet · Taylor · Bet · Casey</p></article><article><h2>race-locked.gif</h2><img src="race-locked.gif"><p>Native Discord controls: None</p></article><article><h2>race-closed.png</h2><img src="race-closed.png"><p>Native Discord controls: None</p></article><article><h2>race-cancelled.png</h2><img src="race-cancelled.png"><p>Native Discord controls: None</p></article><article><h2>fight-waiting.gif</h2><img src="fight-waiting.gif"><p>Native Discord controls: None</p></article><article><h2>fight-open.png</h2><img src="fight-open.png"><p>Native Discord controls: Bet · Jordan · Bet · Alex · +30 Seconds · Rules</p></article><article><h2>fight-locked.gif</h2><img src="fight-locked.gif"><p>Native Discord controls: None</p></article><article><h2>fight-closed.png</h2><img src="fight-closed.png"><p>Native Discord controls: None</p></article><article><h2>fight-cancelled.png</h2><img src="fight-cancelled.png"><p>Native Discord controls: None</p></article><article><h2>line-open.png</h2><img src="line-open.png"><p>Native Discord controls: I’m In · I Need a Second · Check-ins · Start Countdown · +30 Seconds · Cancel Line</p></article><article><h2>line-locked.gif</h2><img src="line-locked.gif"><p>Native Discord controls: Countdown live</p></article><article><h2>line-closed.png</h2><img src="line-closed.png"><p>Native Discord controls: Check-ins</p></article><article><h2>line-cancelled.png</h2><img src="line-cancelled.png"><p>Native Discord controls: Check-ins</p></article></main>
